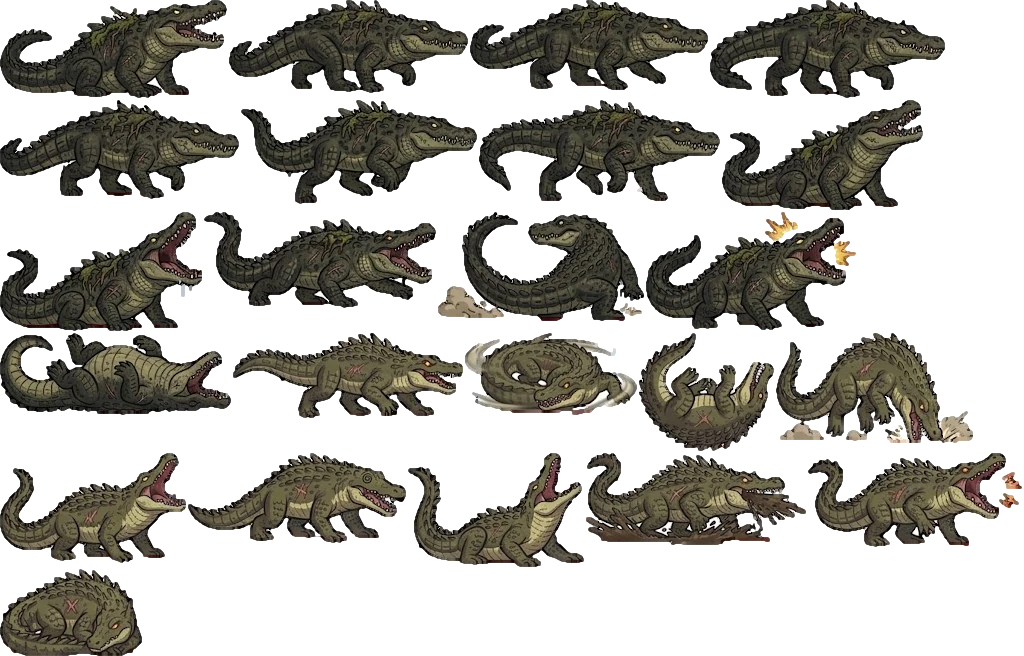
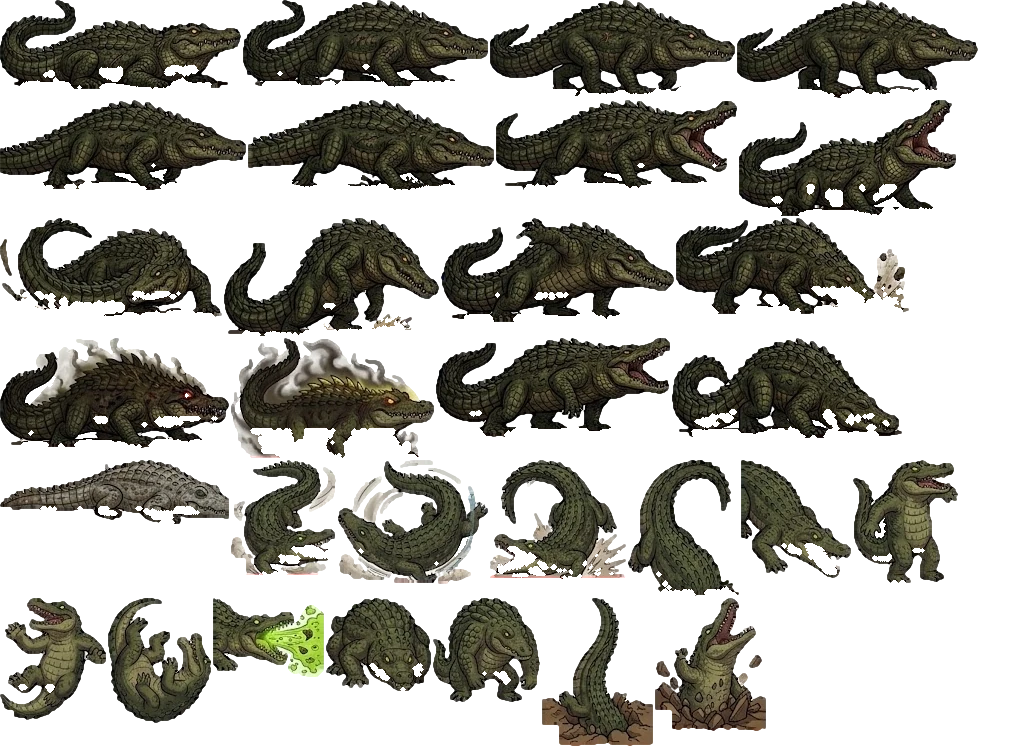
Painted Crocus Rex (W2) from the new darker croc sheets
New atlas with death-roll, tail-arch, belly-slam, eruption, stagger, knock-back
and defeated frames, keyed to the boss's moves; replaces the earlier croc art.

Claude-Session: https://claude.ai/code/session_01MECZjGJdFPh6sMPZ3fVR1g

diff --git a/src/game/crocAtlasData.ts b/src/game/crocAtlasData.ts
@@ -1,4 +1,4 @@
 /** Generated by pack_boss.py from the Gemini Crocus Rex sheets. Frames face RIGHT; ax/ay is the middle of the body on the ground line. */
 export interface BossFrame { x: number; y: number; w: number; h: number; ax: number; ay: number }
-export const CROC_ATLAS_SIZE = { w: 1024, h: 656 };
-export const CROC_FRAMES: Record<string, BossFrame> = {"idle": {"x": 0, "y": 0, "w": 227, "h": 98, "ax": 118.0, "ay": 93}, "w_0": {"x": 229, "y": 0, "w": 239, "h": 93, "ax": 121.0, "ay": 89}, "w_1": {"x": 470, "y": 0, "w": 238, "h": 90, "ax": 118.0, "ay": 86}, "w_2": {"x": 710, "y": 0, "w": 235, "h": 98, "ax": 116.0, "ay": 94}, "w_3": {"x": 0, "y": 100, "w": 239, "h": 99, "ax": 118.0, "ay": 95}, "run_0": {"x": 241, "y": 100, "w": 236, "h": 104, "ax": 118.0, "ay": 102}, "run_1": {"x": 479, "y": 100, "w": 241, "h": 101, "ax": 121.0, "ay": 99}, "alert": {"x": 722, "y": 100, "w": 201, "h": 110, "ax": 113.0, "ay": 106}, "threat": {"x": 0, "y": 212, "w": 202, "h": 119, "ax": 110.0, "ay": 118}, "lunge": {"x": 204, "y": 212, "w": 232, "h": 96, "ax": 116.0, "ay": 91}, "tailwhip": {"x": 438, "y": 212, "w": 206, "h": 109, "ax": 102.0, "ay": 106}, "hurt": {"x": 646, "y": 212, "w": 210, "h": 118, "ax": 108.0, "ay": 114}, "dead": {"x": 0, "y": 333, "w": 231, "h": 82, "ax": 115.0, "ay": 79}, "enraged": {"x": 233, "y": 333, "w": 230, "h": 85, "ax": 116.0, "ay": 82}, "roll_0": {"x": 465, "y": 333, "w": 172, "h": 82, "ax": 79.0, "ay": 78}, "roll_1": {"x": 639, "y": 333, "w": 135, "h": 118, "ax": 62.0, "ay": 112}, "crush": {"x": 776, "y": 333, "w": 197, "h": 110, "ax": 98.0, "ay": 108}, "roar": {"x": 0, "y": 453, "w": 186, "h": 110, "ax": 104.0, "ay": 104}, "dizzy": {"x": 188, "y": 453, "w": 218, "h": 90, "ax": 115.0, "ay": 85}, "throes": {"x": 408, "y": 453, "w": 176, "h": 114, "ax": 86.0, "ay": 108}, "mud": {"x": 586, "y": 453, "w": 220, "h": 92, "ax": 98.0, "ay": 86}, "chomp": {"x": 808, "y": 453, "w": 214, "h": 94, "ax": 107.0, "ay": 90}, "block": {"x": 0, "y": 569, "w": 142, "h": 87, "ax": 70.0, "ay": 86}};
+export const CROC_ATLAS_SIZE = { w: 1024, h: 746 };
+export const CROC_FRAMES: Record<string, BossFrame> = {"idle": {"x": 0, "y": 0, "w": 241, "h": 89, "ax": 118.0, "ay": 92}, "crawl0": {"x": 243, "y": 0, "w": 245, "h": 87, "ax": 122.0, "ay": 91}, "crawl1": {"x": 490, "y": 0, "w": 245, "h": 96, "ax": 123.0, "ay": 99}, "crawl2": {"x": 737, "y": 0, "w": 241, "h": 98, "ax": 123.0, "ay": 99}, "run0": {"x": 0, "y": 100, "w": 246, "h": 90, "ax": 123.0, "ay": 90}, "run1": {"x": 248, "y": 100, "w": 246, "h": 90, "ax": 123.0, "ay": 97}, "jawsnap": {"x": 496, "y": 100, "w": 241, "h": 90, "ax": 123.0, "ay": 90}, "roar": {"x": 739, "y": 100, "w": 217, "h": 116, "ax": 123.0, "ay": 119}, "tailwhip": {"x": 0, "y": 218, "w": 222, "h": 99, "ax": 107.0, "ay": 104}, "bellyslam": {"x": 224, "y": 218, "w": 215, "h": 118, "ax": 106.0, "ay": 120}, "clawswipe": {"x": 441, "y": 218, "w": 233, "h": 104, "ax": 119.0, "ay": 105}, "grab": {"x": 676, "y": 218, "w": 233, "h": 96, "ax": 123.0, "ay": 98}, "enrage1": {"x": 0, "y": 338, "w": 229, "h": 110, "ax": 113.0, "ay": 112}, "enrage2": {"x": 231, "y": 338, "w": 203, "h": 120, "ax": 111.0, "ay": 127}, "hurt": {"x": 436, "y": 338, "w": 234, "h": 99, "ax": 120.0, "ay": 101}, "stagger": {"x": 672, "y": 338, "w": 230, "h": 100, "ax": 117.0, "ay": 103}, "defeated": {"x": 0, "y": 460, "w": 229, "h": 64, "ax": 112.0, "ay": 67}, "roll1": {"x": 231, "y": 460, "w": 105, "h": 115, "ax": 53.5, "ay": 122}, "roll2": {"x": 338, "y": 460, "w": 150, "h": 124, "ax": 73.5, "ay": 126}, "roll3": {"x": 490, "y": 460, "w": 136, "h": 119, "ax": 67.5, "ay": 125}, "tailbite": {"x": 628, "y": 460, "w": 111, "h": 136, "ax": 55.5, "ay": 138}, "jawbite": {"x": 741, "y": 460, "w": 110, "h": 118, "ax": 55.5, "ay": 125}, "recoil": {"x": 853, "y": 460, "w": 105, "h": 123, "ax": 52.5, "ay": 126}, "knockback": {"x": 0, "y": 598, "w": 106, "h": 122, "ax": 52.5, "ay": 122}, "beaten": {"x": 108, "y": 598, "w": 103, "h": 125, "ax": 48.5, "ay": 125}, "blast": {"x": 213, "y": 598, "w": 111, "h": 79, "ax": 55.5, "ay": 93}, "rampage": {"x": 326, "y": 598, "w": 105, "h": 93, "ax": 53.0, "ay": 98}, "hide": {"x": 433, "y": 598, "w": 107, "h": 104, "ax": 53.5, "ay": 108}, "ambush": {"x": 542, "y": 598, "w": 111, "h": 148, "ax": 55.5, "ay": 148}, "eruptslam": {"x": 655, "y": 598, "w": 111, "h": 133, "ax": 55.5, "ay": 133}};

diff --git a/src/game/crocSprite.ts b/src/game/crocSprite.ts
@@ -1,38 +1,40 @@
 /**
  * Painted Crocus Rex (world 2 boss, the river king) from the Gemini pose sheets. A switch like the other painted creatures:
- * `?croc=sprite` / `?croc=classic`, `localStorage.sloth_croc = 'sprite'`, DEFAULT_SPRITE_CROC otherwise.
+ * `?croc=sprite` / `?croc=classic`, `localStorage.sloth_croc = 'sprite'`, DEFAULT_SPRITE_CROC otherwise (classic = the vector croc).
  *
- * Poses follow the boss brain: idle (angrier from phase 3), a walk (a run from phase 2), a warning pose for each wind-up, the death
- * roll as two alternating spin frames, the tail whip, the mud slam, the open recovery, dizzy after a crash and the death throes.
+ * Poses follow the boss brain: idle (smouldering from phase 3), a crawl (a run from phase 2), the bellow before the death roll, the
+ * arched tail for the tail whip, the reared belly slam and the rubble eruption for the mud surge, the three spinning death-roll frames,
+ * the open jaws on recovery, the stagger after a crash and the knock-back, belly-up and defeated frames at the end.
  */
 import { createPaintedBoss } from './paintedBoss.ts';
 import { CROC_FRAMES } from './crocAtlasData.ts';
 
 export const DEFAULT_SPRITE_CROC = true;
-const WALK = ['w_0', 'w_1', 'w_2', 'w_3'];
-const STRIDE = 64;
+const WALK = ['crawl0', 'crawl1', 'crawl2', 'crawl1'];
+const ROLL = ['roll1', 'roll2', 'roll3'];
+const STRIDE = 70;
 
 export const crocSprite = createPaintedBoss({
   param: 'croc',
   defaultOn: DEFAULT_SPRITE_CROC,
   url: new URL('../assets/enemies/croc-atlas.webp', import.meta.url).href,
   frames: CROC_FRAMES,
-  k: 0.85,
+  k: 0.8,
   pick: ({ b, br, m, moving, dist, time }) => {
     let name: string;
-    if (br.state === 'dying') name = br.t < 0.7 ? 'throes' : 'dead';
-    else if (br.state === 'stun') name = 'dizzy';
-    else if (br.state === 'roar') name = 'threat';
-    else if (br.state === 'tell') name = m?.pose === 'slam' ? 'roar' : m?.pose === 'whip' ? 'alert' : 'threat';
+    if (br.state === 'dying') name = br.t < 0.5 ? 'knockback' : br.t < 1.3 ? 'beaten' : 'defeated';
+    else if (br.state === 'stun') name = Math.floor(time * 2.2) % 2 === 0 ? 'stagger' : 'recoil';
+    else if (br.state === 'roar') name = 'roar';
+    else if (br.state === 'tell') name = m?.pose === 'slam' ? 'bellyslam' : m?.pose === 'whip' ? 'tailbite' : 'roar';
     else if (br.state === 'act') {
-      if (m?.pose === 'charge') name = Math.floor(time * 9) % 2 === 0 ? 'roll_0' : 'roll_1';
+      if (m?.pose === 'charge') name = ROLL[Math.floor(time * 11) % ROLL.length];
       else if (m?.pose === 'whip') name = 'tailwhip';
-      else name = 'crush';
-    } else if (br.state === 'rec') name = 'chomp';
+      else name = 'eruptslam';
+    } else if (br.state === 'rec') name = 'jawbite';
     else if (moving) {
-      if (b.phase >= 2) name = Math.floor((dist / 40) * 2) % 2 === 0 ? 'run_0' : 'run_1';
+      if (b.phase >= 2) name = Math.floor((dist / 44) * 2) % 2 === 0 ? 'run0' : 'run1';
       else name = WALK[Math.floor((dist / STRIDE) * WALK.length) % WALK.length];
-    } else name = b.phase >= 3 ? 'enraged' : 'idle';
+    } else name = b.phase >= 3 ? 'enrage1' : 'idle';
     if (b.hitFlashTimer > 0.12 && (br.state === 'idle' || br.state === 'rec')) name = 'hurt';
     return name;
   },

diff --git a/src/game/bossArt.ts b/src/game/bossArt.ts
@@ -24,7 +24,7 @@ const PAINTED: Record<number, PaintedBoss> = { 1: venomSprite, 2: crocSprite, 3:
 /** the poses the painted bosses strike on the story cards: calm, angry (while it speaks its threat) and beaten */
 const CARD_POSES: Record<number, [string, string, string]> = {
   1: ['idle', 'threat', 'dead'],
-  2: ['idle', 'threat', 'dead'],
+  2: ['idle', 'roar', 'defeated'],
   3: ['idle', 'alert', 'dead'],
   4: ['glide', 'alert', 'dead'],
   6: ['idle', 'roar', 'deadheap'],
